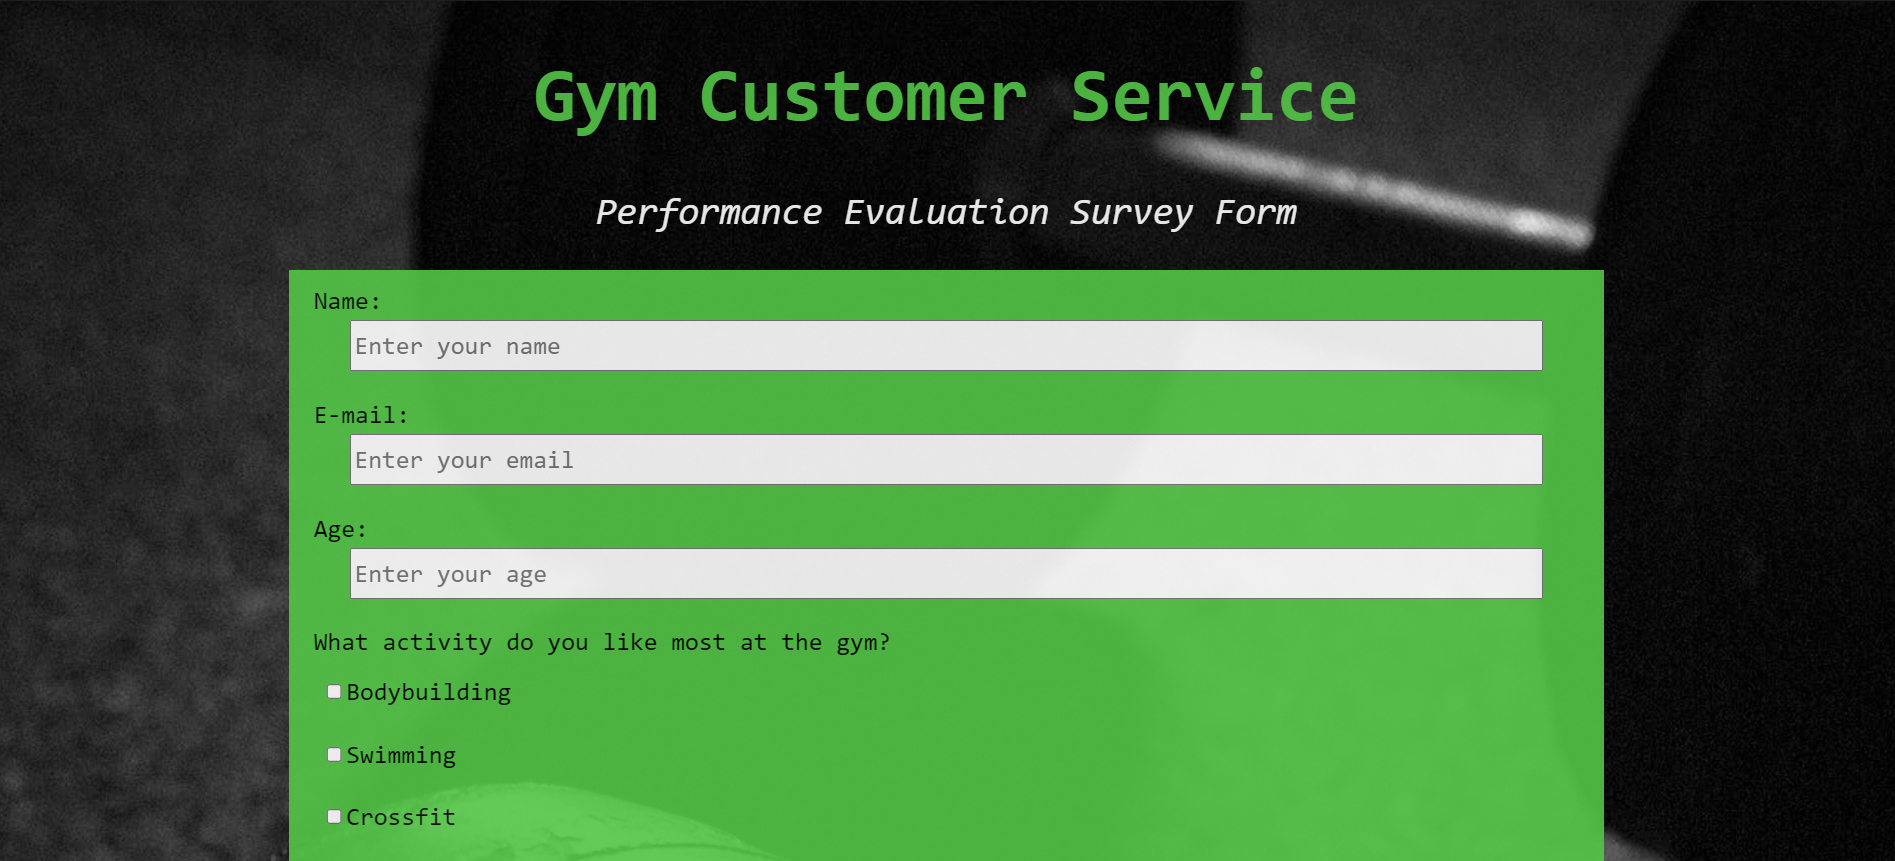
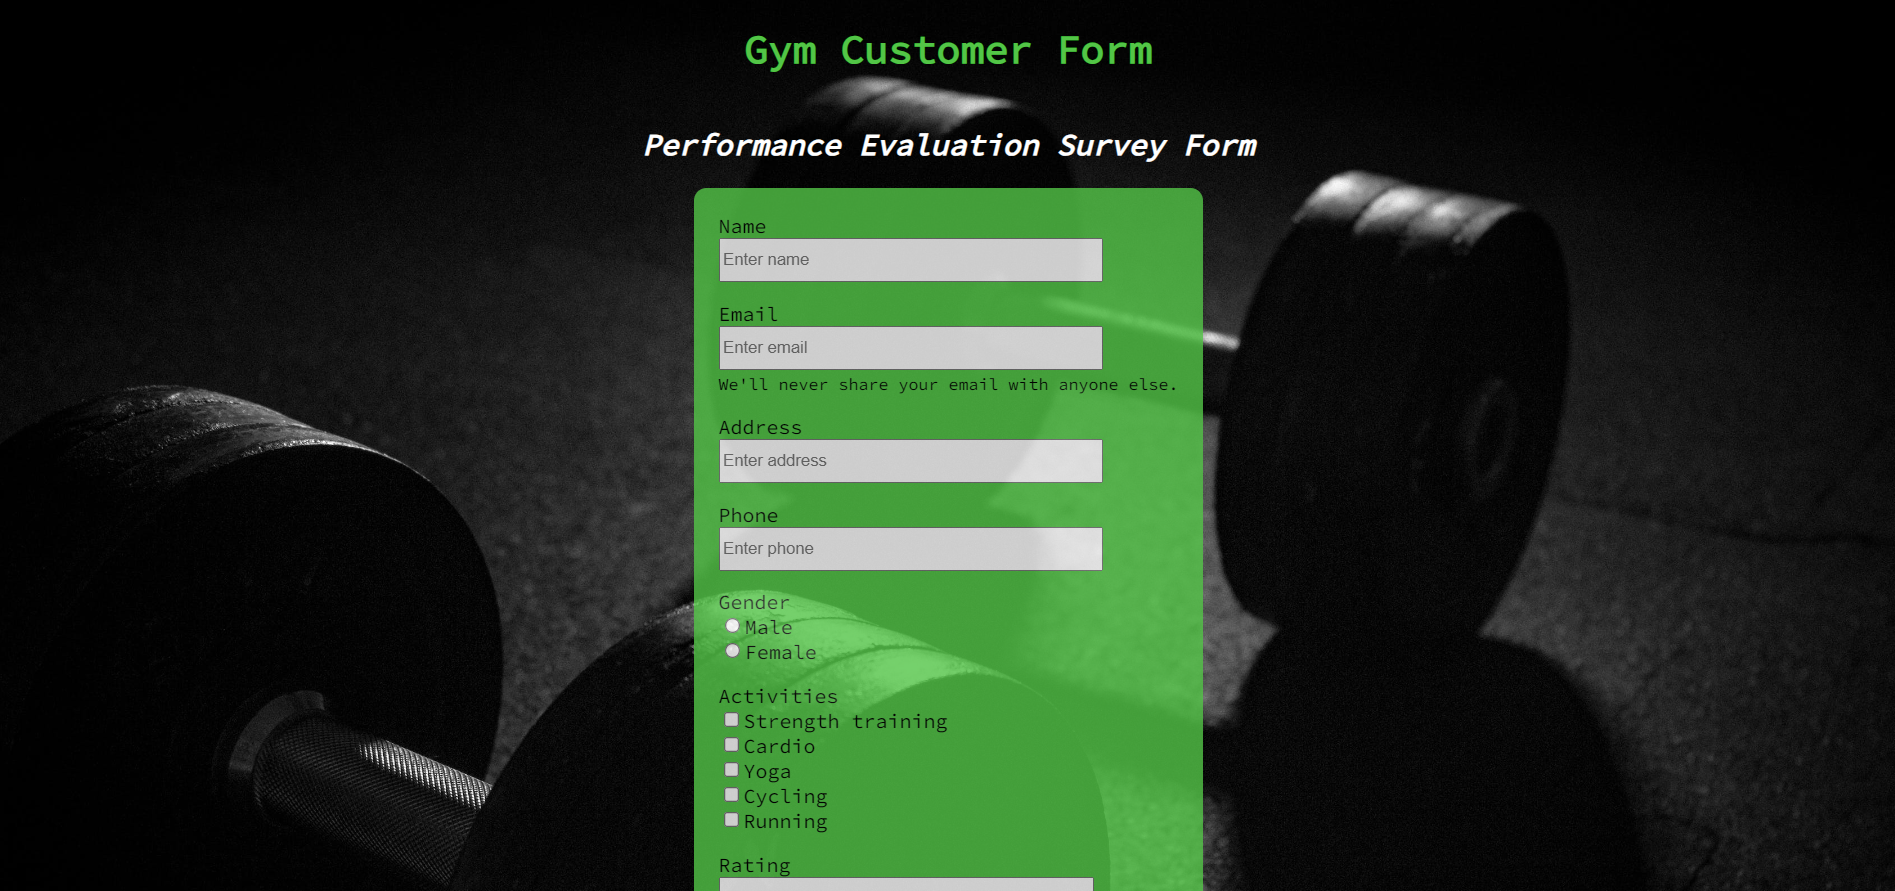
gym form update

diff --git a/src/Projects.js b/src/Projects.js
@@ -14,10 +14,10 @@ function Projects() {
       image: "./thumbnail-coffee-shop.png",
     },
     {
-      title: "Survey Form",
-      description: "Survey Form created with HTML, and CSS.",
-      techStack: "HTML, CSS",
-      demoLink: "https://codepen.io/bruno-mota/full/rNJaQde",
+      title: "Gym Survey Form",
+      description: "Survey Form created with React, and Bootstrap.",
+      techStack: "HTML, CSS, JS, React, and Bootstrap",
+      demoLink: "https://gym-form-react.netlify.app/",
       codeLink: "https://github.com/bmota1988/Survey_Form",
       image: "./Survey_Form.png",
     },
